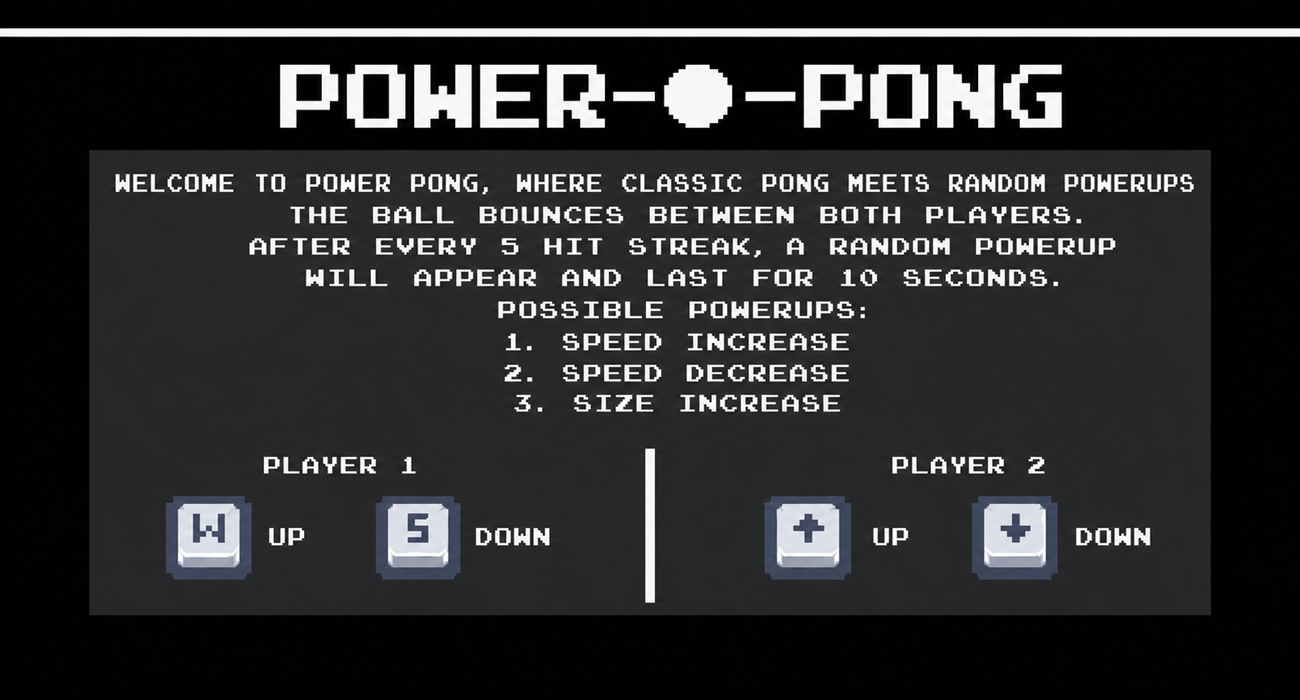
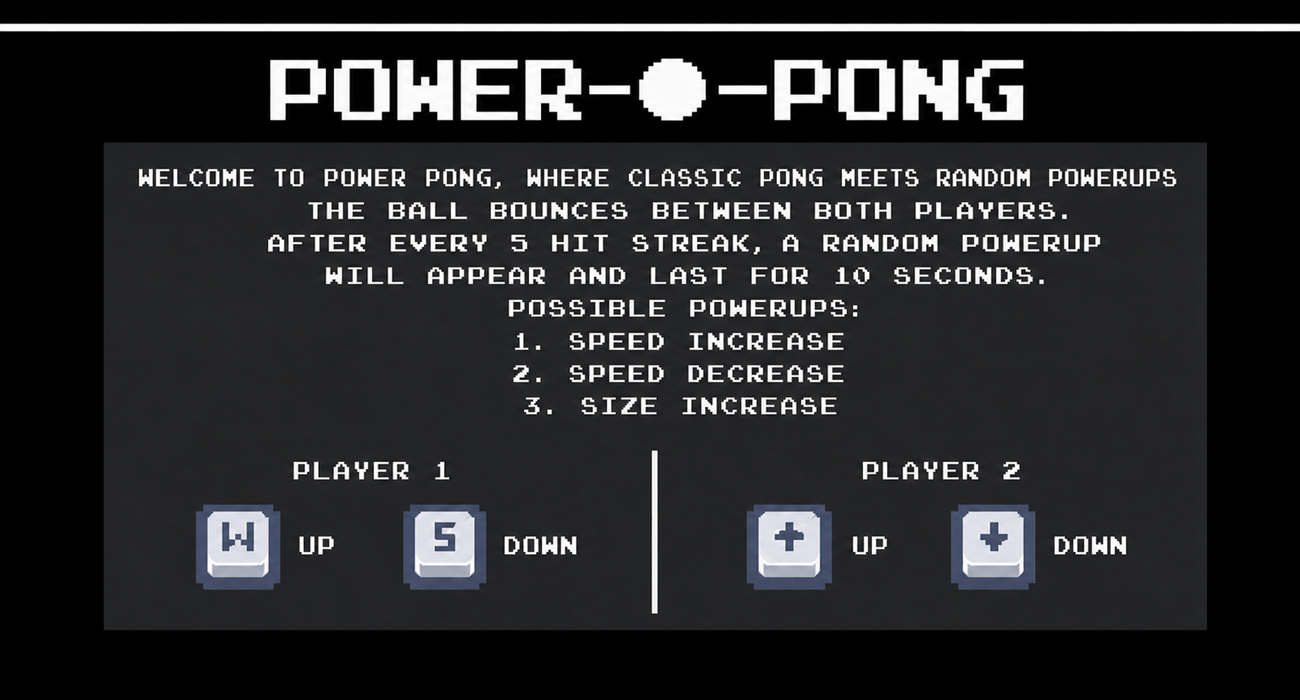
e

Changed region(s): [[0.0, 0.03, 1.0, 0.9], [0.5538, 0.63, 0.8923, 0.84], [0.1231, 0.63, 0.4615, 0.84]]

diff --git a/power_pong/help.java b/power_pong/help.java
@@ -17,33 +17,33 @@ public class help extends JPanel implements MouseListener, MouseMotionListener {
         g.drawImage(bg, 0, 0, 1300, 700, this);
 
         //back button (bottom left)
-        if (mouseX > 20 && mouseX < 220 && mouseY > 620 && mouseY < 690) {
+        if (mouseX > 15 && mouseX < 165 && mouseY > 635 && mouseY < 690) {
             g.setColor(Color.WHITE);
         } else {
             g.setColor(Color.BLACK);
         }
-        g.fillRect(20, 620, 200, 70);
-        if (mouseX > 20 && mouseX < 220 && mouseY > 620 && mouseY < 690) {
+        g.fillRect(15, 635, 150, 55);
+        if (mouseX > 15 && mouseX < 165 && mouseY > 635 && mouseY < 690) {
             g.setColor(Color.BLACK);
         } else {
             g.setColor(Color.WHITE);
         }
-        g.setFont(new Font("Times New Roman", Font.BOLD, 40));
-        g.drawString("Back", 75, 665);
+        g.setFont(new Font("Times New Roman", Font.BOLD, 33));
+        g.drawString("Back", 48, 672);
 
         //play button (bottom right)
-        if (mouseX > 1080 && mouseX < 1280 && mouseY > 620 && mouseY < 690) {
+        if (mouseX > 1135 && mouseX < 1285 && mouseY > 635 && mouseY < 690) {
             g.setColor(Color.WHITE);
         } else {
             g.setColor(Color.BLACK);
         }
-        g.fillRect(1080, 620, 200, 70);
-        if (mouseX > 1080 && mouseX < 1280 && mouseY > 620 && mouseY < 690) {
+        g.fillRect(1135, 635, 150, 55);
+        if (mouseX > 1135 && mouseX < 1285 && mouseY > 635 && mouseY < 690) {
             g.setColor(Color.BLACK);
         } else {
             g.setColor(Color.WHITE);
         }
-        g.drawString("Play", 1140, 665);
+        g.drawString("Play", 1168, 672);
     }
 
     public void mousePressed(MouseEvent e) {
@@ -51,12 +51,12 @@ public class help extends JPanel implements MouseListener, MouseMotionListener {
         int y = e.getY();
 
         //back button
-        if (x > 20 && x < 220 && y > 620 && y < 690) {
+        if (x > 15 && x < 165 && y > 635 && y < 690) {
             //goes to menu screen (add later)
         }
 
         //play button
-        if (x > 1080 && x < 1280 && y > 620 && y < 690) {
+        if (x > 1135 && x < 1285 && y > 635 && y < 690) {
             //goes to game screen (add later)
         }
     }
@@ -84,10 +84,10 @@ public class help extends JPanel implements MouseListener, MouseMotionListener {
         help help = new help();
 
         window.add(help);
+        window.setUndecorated(true);
         window.pack();
 
         window.setDefaultCloseOperation(JFrame.EXIT_ON_CLOSE);
-        window.setUndecorated(true);
         window.setLocationRelativeTo(null);
         window.setVisible(true);
     }